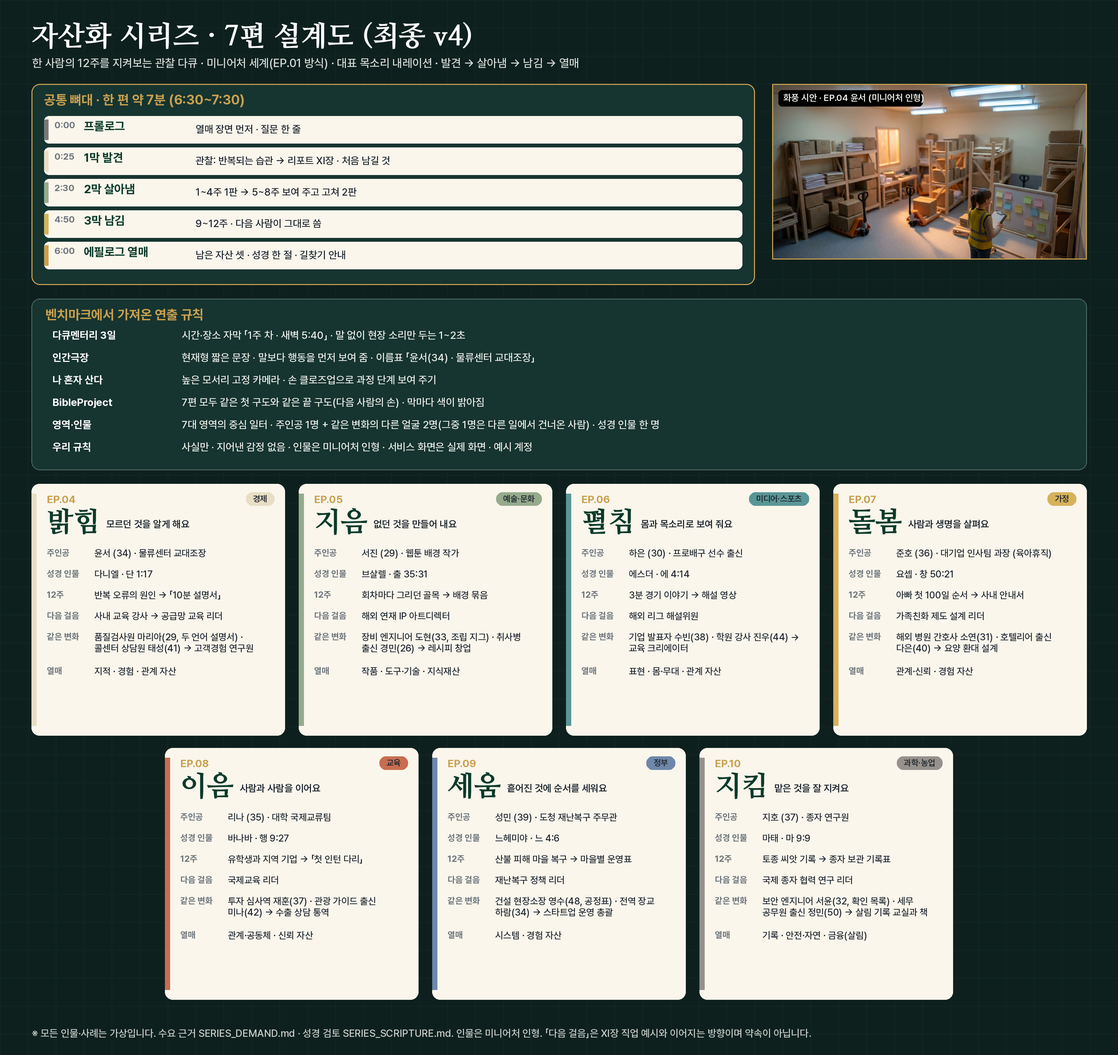
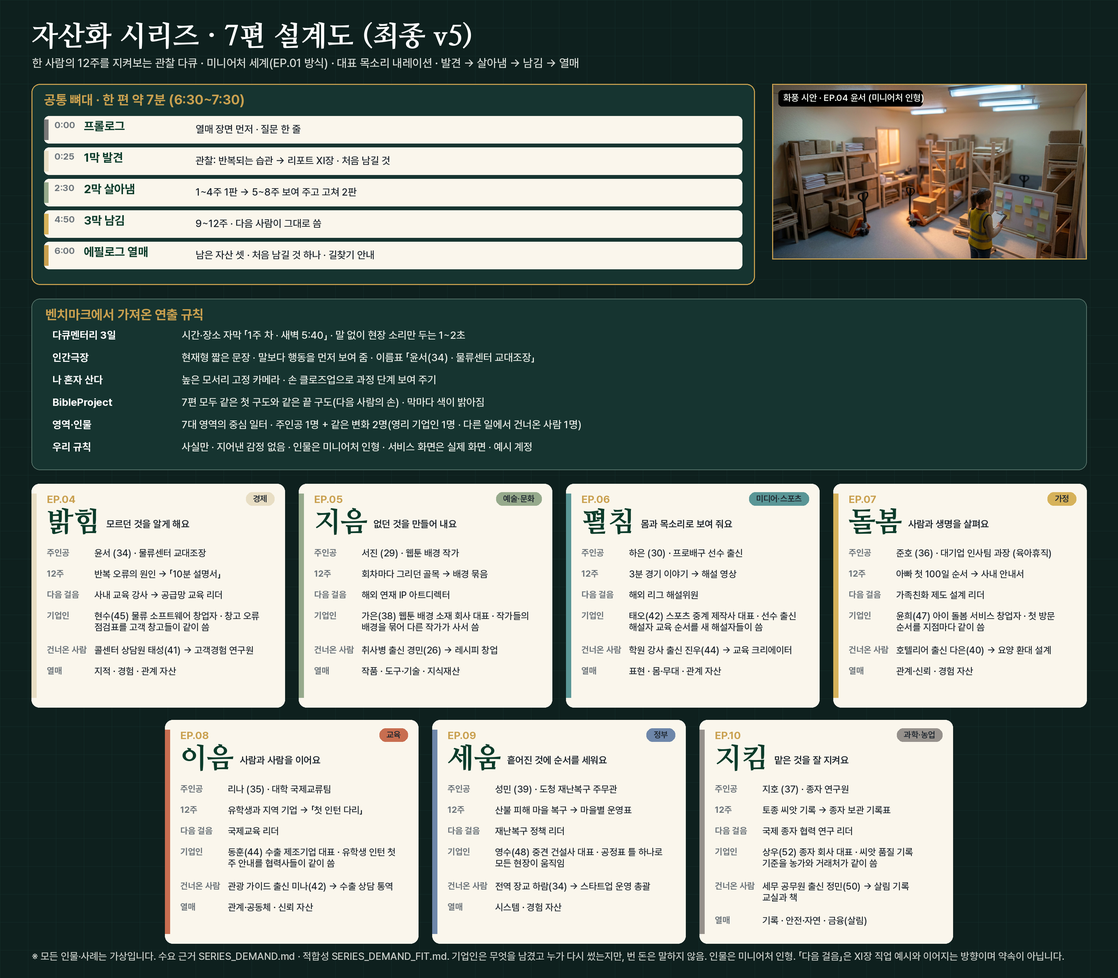
series: plan v5 (no Bible figures in videos, business founders added), demand fit review, scripture advice, EP04 script v3

Changed region(s): [[0.0312, 0.0, 1.0, 0.9943]]

diff --git a/docs/marketing/youtube/ep04_toolkit/EP04_script.md b/docs/marketing/youtube/ep04_toolkit/EP04_script.md
@@ -1,47 +1,46 @@
-# 고유함이 쓰이는 순간 EP.04 대본 v2 (대표 검토 전 · 기획 v4 반영)
+# 고유함이 쓰이는 순간 EP.04 대본 v3 (기획 v5 반영: 성경 장면 뺌, 기업인 넣음, 실제 퀘스트 주차와 맞춤)
 제목: 모르던 것을 알게 하는 사람 - 밝힘 | 고유함이 쓰이는 순간 EP.04
-인물(가상): 윤서(34) · 물류센터 새벽조 교대조장
-근거: 해설서 CHANGES 밝힘(line·life·subs 「문제의 원인을 찾아 주기」「아는 것을 쉽게 가르치기」), 리포트 XI장 ASSETS.illuminate, 12주 자산화 퀘스트 구조
-성경: 다니엘 1:17 (검토: series/SERIES_SCRIPTURE.md)
+인물(가상): 윤서(34) · 물류센터 새벽조 교대조장 / 같은 변화: 현수(45) 물류 소프트웨어 회사 창업자 · 태성(41) 콜센터 상담원 → 고객경험 연구원
+근거: 해설서 CHANGES 밝힘, 리포트 XI장(실제 엔진 결과 screens/xi.json), 12주 자산화 퀘스트(asset-quest-v1, 밝힘 · 지적 자산 · 원인과 해결 순서)
 표기: 숫자는 TTS용 한글. 화면에는 아라비아 숫자로 합성.
 연출 표기: (현장음) = 내레이션 없이 1~2초 현장 소리만. 〔자막〕 = 시간·장소·이름표 자막.
 
 [S01|모르던 것을 알게 하는 사람]
 〔12주 차 · 새벽 5:40 · 출고장〕
-새벽 다섯 시 사십 분, 물류센터 출고장. 처음 출근한 신입 조장이 종이 한 장을 펼칩니다. 맨 위에 적힌 제목은 십 분 설명서. 이 종이를 쓴 사람은 같은 센터의 교대조장, 윤서 씨입니다. 열두 주 전에는 이 종이가 없었습니다. 이 사람이 있으면 무엇이 달라질까요. 밝힘은 모르던 것을 알게 하는 변화입니다.
+새벽 다섯 시 사십 분, 물류센터 출고장. 처음 출근한 신입 조장이 종이 한 장을 펼칩니다. 맨 위에 적힌 제목은 십 분 설명서. 이 종이를 쓴 사람은 같은 센터의 교대조장, 윤서 씨입니다. 열두 주 전에는 이 종이가 없었습니다. 밝힘은 모르던 것을 알게 하는 변화입니다.
 (현장음)
 
 [S02|같은 칸, 같은 질문]
 〔1주 차 · 새벽 5:00〕〔윤서(34) · 물류센터 교대조장〕
-윤서 씨는 올해 서른네 살, 새벽조 교대조장입니다. 근무를 시작하면 윤서 씨는 먼저 출고 오류 기록부를 엽니다. 전날 잘못 나간 상자가 몇 개인지, 어느 칸에서 나왔는지 손가락으로 따라 내려갑니다. 오류는 자주 같은 칸에서 납니다. 이름이 비슷한 상품이 나란히 놓인 칸입니다. 새로 온 직원이 물으면, 윤서 씨는 그 칸 앞으로 함께 걸어가 라벨의 끝자리를 짚어 줍니다. 이번 주에만 같은 설명을 네 번 했습니다. 설명은 매번 윤서 씨의 말로만 전해졌고, 종이에는 남지 않았습니다.
+윤서 씨는 올해 서른네 살, 새벽조 교대조장입니다. 근무를 시작하면 윤서 씨는 먼저 출고 오류 기록부를 엽니다. 전날 잘못 나간 상자가 몇 개인지, 어느 칸에서 나왔는지 손가락으로 따라 내려갑니다. 오류는 자주 같은 칸에서 납니다. 이름이 비슷한 상품이 나란히 놓인 칸입니다. 새로 온 직원이 물으면, 윤서 씨는 그 칸 앞으로 함께 걸어가 라벨의 끝자리를 짚어 줍니다. 이번 주에만 같은 설명을 네 번 했습니다. 그 설명은 아직 종이에 적힌 적이 없습니다.
 (현장음)
 
 [S02b|묻는 사람이 찾아오는 자리]
 〔1주 차 · 오전 7:30 · 휴게실〕
-근무가 끝나 갈 무렵, 휴게실 게시판 앞에서 다른 조 직원이 윤서 씨를 부릅니다. 바코드가 안 읽힐 때 어떻게 하는지 묻습니다. 윤서 씨는 휴대전화에 저장해 둔 사진 한 장을 보여 주고, 스캐너를 기울이는 각도를 손으로 그려 줍니다. 윤서 씨의 휴대전화에는 이런 사진이 서른 장 넘게 있습니다. 라벨, 칸 번호, 상자 모양. 모두 누군가 물었던 것을 설명하려고 찍은 사진입니다. 윤서 씨는 이 사진들을 한곳에 모아 본 적이 없습니다.
+근무가 끝나 갈 무렵, 휴게실 게시판 앞에서 다른 조 직원이 윤서 씨를 부릅니다. 바코드가 안 읽힐 때 어떻게 하는지 묻습니다. 윤서 씨는 휴대전화에 저장해 둔 사진 한 장을 보여 주고, 스캐너를 기울이는 각도를 손으로 그려 줍니다. 윤서 씨의 휴대전화에는 이런 사진이 서른 장 넘게 있습니다. 라벨, 칸 번호, 상자 모양. 모두 누군가 물었던 것을 설명하려고 찍은 사진입니다.
 (현장음)
 
 [S03|리포트 십일 장, 밝힘]
-윤서 씨가 받은 리포트의 마지막 장은 십일 장, 자산화 길 찾기입니다. 자산화 유형은 밝힘. 모르는 걸 끝까지 찾아보고, 알게 된 것을 다른 사람에게 쉽게 풀어 주는 일입니다. 동료에게 요령을 알려 주는 일도 밝힘입니다. 그 아래에는 윤서 씨의 리포트에서 나온 말로 엮은 나만의 자산화 문장이 있습니다. 그리고 이번 주에 해 볼 처음 남길 것 하나. 반복되는 문제 하나의 원인과 해결 순서를 적어 보기. 윤서 씨는 이 한 줄을 기록부 첫 장에 옮겨 적습니다.
+윤서 씨가 받은 리포트의 마지막 장은 십일 장, 자산화 길 찾기입니다. 자산화 유형은 밝힘. 그 아래에 윤서 씨의 답에서 나온 말로 엮은 자산화 문장이 있습니다. 사람들이 모이는 한복판에서 문제의 원인을 찾아 길을 밝혀 주는 사람. 그 일을 원인과 해결 순서로 남겨, 다른 사람도 다시 쓸 수 있게 하는 사람. 그리고 처음 남길 것 하나. 반복되는 문제 하나의 원인과 해결 순서를 적어 보기. 윤서 씨는 이 한 줄을 기록부 첫 장에 옮겨 적습니다.
 〔화면 표기: 실제 서비스 화면 · 예시 계정〕
 
 [S04|일 주에서 사 주, 해 보고 남기기]
 〔1~4주 차 · 해 보고 남기기〕
-윤서 씨는 자산화 맞춤 실행 프로그램의 십이 주 퀘스트를 시작합니다. 일 주부터 사 주는 가까운 사람 곁에서 해 보고 남기는 구간입니다. 일 주 차, 지난 한 달의 오류 기록을 칸별로 셉니다. 가장 많이 나온 칸은 세 곳입니다. 이 주 차, 세 칸 앞에 서서 무엇이 헷갈리게 하는지 적습니다. 비슷한 상품 이름, 같은 색 상자, 끝자리만 다른 라벨. 삼 주 차, 원인 옆에 해결 순서를 붙입니다. 라벨 끝자리 두 개를 소리 내어 읽고, 그다음에 상자를 집습니다. 윤서 씨는 이 순서를 일주일 동안 직접 지켜 봅니다. 사 주 차, 이 내용을 종이 한 장에 담습니다. 십 분이면 다 읽을 수 있는 분량, 십 분 설명서의 첫 판입니다. 그날 다이어리의 오늘 해 봤어요에 한 줄이 남습니다. 오류가 많은 칸 세 곳, 원인과 순서 정리.
+윤서 씨는 자산화 맞춤 실행 프로그램의 십이 주 퀘스트를 시작합니다. 일 주부터 사 주는 가까운 사람 곁에서 해 보고 남기는 구간입니다. 일 주 차, 해 보기. 지난 한 달의 오류 기록을 칸별로 셉니다. 가장 많이 나온 칸은 세 곳입니다. 이 주 차, 다듬기. 세 칸마다 원인을 적고, 그 옆에 해결 순서를 붙입니다. 라벨 끝자리 두 개를 소리 내어 읽고, 그다음에 상자를 집습니다. 삼 주 차, 까닭 달기. 왜 이 순서인지 한 줄씩 덧붙입니다. 이름이 비슷한 상품은 끝자리에서만 갈린다는 것. 사 주 차, 보여 주기. 십 분이면 다 읽을 수 있는 종이 한 장을 같은 조 동료 한 사람에게 건넵니다. 십 분 설명서의 첫 판입니다. 동료가 말한 한 줄이 다이어리의 오늘 해 봤어요에 남습니다. 사진이 있으면 더 빨리 찾겠다.
 (현장음)
 
 [S05|오 주에서 팔 주, 보여 주고 고쳐 쓰기]
 〔5~8주 차 · 보여 주고 고쳐 쓰기〕
-오 주부터 팔 주는 보여 주고 고쳐 쓰는 구간입니다. 윤서 씨는 첫 판을 들고 새로 온 직원 한 사람 옆에 섭니다. 십 분 동안 함께 읽고, 그 직원이 세 칸에서 직접 상자를 집습니다. 직원이 묻습니다. 끝자리까지 같으면 어떻게 해요. 윤서 씨는 그 질문을 그대로 받아 적습니다. 받아 적은 질문은 네 주 동안 열한 개가 됩니다. 두 번째 판에는 질문 칸이 생깁니다. 가장 많이 나온 질문 다섯 개와 그 답, 그리고 칸마다 사진 한 장. 첫 판에 없던 내용은 모두 읽은 사람들의 질문에서 나왔습니다.
-(현장음)
-
-〔8주 차 · 새벽 4:50 · 교육실〕
-팔 주 차 새벽, 윤서 씨는 두 번째 판을 처음 보는 직원에게 건네고 옆에서 말을 하지 않습니다. 직원은 혼자 설명서를 읽고 세 칸으로 걸어갑니다. 라벨 끝자리를 소리 내어 읽고 상자를 집습니다. 한 번 멈춘 곳은 질문 칸의 세 번째 줄입니다. 윤서 씨는 그 줄 옆에 작은 별표를 그립니다. 다음 판에서 더 쉽게 고칠 곳입니다. 그날 오늘 해 봤어요에는 이렇게 남습니다. 설명 없이 혼자 읽고 해냄, 멈춘 곳 한 군데.
+오 주부터 팔 주는 보여 주고 고쳐 쓰는 구간입니다. 오 주 차, 소개하기. 윤서 씨는 조장 회의에서 첫 판을 소개합니다. 다른 조 조장들이 묻습니다. 끝자리까지 같으면 어떻게 해요. 윤서 씨는 그 질문을 그대로 받아 적습니다. 받아 적은 질문은 네 주 동안 열한 개가 됩니다. 육 주 차, 고쳐 쓰기. 두 번째 판에는 질문 칸이 생깁니다. 가장 많이 나온 질문 다섯 개와 그 답, 그리고 칸마다 사진 한 장. 휴대전화에 있던 사진이 여기에 쓰입니다. 칠 주 차, 넓히기. 윤서 씨는 한 주 동안 새로 온 직원들에게 안부를 묻고, 나눈 말을 적습니다. 첫 주에 무엇이 가장 어려웠는지가 그 기록에 남습니다. 팔 주 차, 돌아보기. 오래 함께 일한 선배와 일곱 주의 기록을 펼쳐 봅니다. 되풀이된 것은 셋. 같은 세 칸, 같은 질문, 그리고 첫 주.
 (현장음)
 
 [S06|구 주에서 십이 주, 다음 사람이 쓰는 것]
 〔9~12주 차 · 다음 사람이 쓰는 것〕
-구 주부터 십이 주는 일터에서, 다음 사람이 다시 쓰는 카드로 묶는 구간입니다. 구 주 차, 윤서 씨는 두 번째 판을 신입 교육 첫날 순서에 넣자고 센터장에게 제안합니다. 십 주 차, 설명서는 교육실 벽에 붙습니다. 십일 주 차, 다른 조의 교대조장이 설명서를 복사해 갑니다. 그 조의 칸 번호로 고쳐 쓴 판이 하나 더 생깁니다. 십이 주 차, 처음 출근한 신입 조장이 첫 주에 이 종이를 펼칩니다. 윤서 씨는 설명서를 받아 쓴 사람들을 다이어리에 적습니다. 다른 조 교대조장 한 사람, 신입 조장 한 사람, 새로 온 직원 두 사람. 휴대전화에 흩어져 있던 사진 서른 장은 칸 번호 순서로 설명서 뒤에 붙었습니다.
+구 주부터 십이 주는 일터에서, 다음 사람이 다시 쓰는 카드로 묶는 구간입니다.
+〔9주 차 · 새벽 4:50 · 교육실〕
+구 주 차, 써 보게 하기. 윤서 씨는 두 번째 판을 처음 보는 직원에게 건네고 옆에서 말을 하지 않습니다. 직원은 혼자 설명서를 읽고 세 칸으로 걸어갑니다. 라벨 끝자리를 소리 내어 읽고 상자를 집습니다. 한 번 멈춘 곳은 질문 칸의 세 번째 줄입니다. 윤서 씨는 그 줄 옆에 작은 별표를 그립니다.
+(현장음)
+십 주 차, 묶기. 별표 친 줄을 고친 판과 질문 열한 개, 사진 서른 장을 칸 번호 순서로 한 묶음에 엮습니다. 십일 주 차, 건네기. 회사의 신입 교육을 맡은 강사에게 묶음을 건네고, 어디에 쓸 수 있는지 묻습니다. 강사는 신입 교육 첫날 순서에 이 설명서를 넣습니다. 십이 주 차, 카드 쓰기. 윤서 씨는 열두 주를 자산 카드 한 장에 담습니다. 무엇이 남았나, 누가 다시 썼나, 다음에 넓힐 곳. 누가 다시 썼나 칸에는 다른 조 교대조장 한 사람, 신입 조장 한 사람, 새로 온 직원 두 사람이 적힙니다.
 
 [S06b|다음 걸음]
 〔12주 차 · 오후 2:00 · 사무실〕
@@ -50,14 +49,11 @@
 
 [S07|같은 변화, 다른 얼굴]
 〔같은 변화, 다른 얼굴〕
-밝힘은 물류센터에만 있지 않습니다. 반도체 공장의 품질검사원 마리아 씨는 스물아홉 살입니다. 같은 불량을 두 나라 동료가 서로 다르게 부르는 것을 보고, 두 언어로 된 검사 설명서를 한 장 만들었습니다. 콜센터 상담원 태성 씨는 마흔한 살입니다. 칠 년 동안 같은 질문을 받은 날짜와 내용을 적어 왔고, 그 기록을 묶어 고객경험 연구원 자리에 지원했습니다. 하던 일 안에서 이미 쌓고 있던 것이 다음 자리의 재료가 되었습니다.
+같은 밝힘이 다른 일터에서도 보입니다. 물류 소프트웨어 회사를 세운 현수 씨는 마흔다섯 살입니다. 고객 창고 열두 곳의 오류 기록을 같은 항목으로 모아, 점검표 한 장으로 정리했습니다. 새로 계약한 창고는 첫 주에 이 점검표로 시작합니다. 콜센터 상담원 태성 씨는 마흔한 살입니다. 칠 년 동안 같은 질문을 받은 날짜와 내용을 적어 왔고, 그 기록을 묶어 고객경험 연구원 자리에 지원했습니다. 세 사람 모두 반복되는 문제의 원인을 적었고, 그 기록을 다른 사람이 다시 씁니다.
 (현장음)
 
 [S08|열두 주 뒤에 남은 것]
 열두 주가 지났습니다. 윤서 씨에게 남은 것을 리포트 십일 장의 말로 적어 봅니다. 첫째, 지적 자산. 원인과 해결 순서를 담은 십 분 설명서. 둘째, 경험 자산. 오류가 잦던 세 칸을 풀어 본 사례 기록과 열한 개의 질문. 셋째, 관계 자산. 모르는 것이 생기면 윤서 씨에게 묻고 배우러 오는 사람들.
-
-[S09|낯선 곳에서 배운 사람]
-성경에는 낯선 나라의 궁에서 배운 사람이 있습니다. 다니엘입니다. 다니엘서 일 장 십칠 절은 이렇게 말합니다. 하나님이 이 네 소년에게 학문을 주시고, 모든 서적을 깨닫게 하시고, 지혜를 주셨으니. 앎과 깨달음은 받은 것이고, 다니엘은 그 앎으로 맡은 자리에서 일했습니다. 윤서 씨가 알게 된 것도 종이 한 장에 담겨, 다음 사람에게 건너갔습니다.
 
 [S10|처음 남길 것 하나]
 고유함은 발견하고, 살아내고, 남길 때 자산이 됩니다. 윤서 씨의 열두 주는 반복되는 문제 하나에서 시작했습니다. 리포트 십일 장에서 자산화 유형과 처음 남길 것을 확인하실 수 있고, 마이페이지의 나의 다이어리, 추천 진로 세 카드에서 길찾기를 열 수 있습니다. 처음 남길 것 하나면 충분합니다.

diff --git a/docs/marketing/youtube/series/SERIES_PLAN.md b/docs/marketing/youtube/series/SERIES_PLAN.md
@@ -1,13 +1,13 @@
-# 자산화 시리즈 기획서 (EP.04 ~ EP.10) · 최종본 v4
+# 자산화 시리즈 기획서 (EP.04 ~ EP.10) · 최종본 v5
 
-상태: 대표 확정 사항을 반영한 최종본. EP.04 제작을 시작할 수 있습니다.
-함께 보는 문서: `SERIES_BLUEPRINT.png`(설계도), `SERIES_BENCHMARK.md`(벤치마크), `SERIES_DEMAND.md`(영역별 수요조사와 사례), `SERIES_SCRIPTURE.md`(성경 인물·구절 검토), `subwrap.py`(자막 규칙)
+상태: 대표 확정 사항(v5: 영상에 성경 인물 없음, 영리 기업인 추가)을 반영한 최종본. EP.04 제작 중입니다.
+함께 보는 문서: `SERIES_BLUEPRINT.png`(설계도), `SERIES_BENCHMARK.md`(벤치마크), `SERIES_DEMAND.md`(영역별 수요조사와 사례), `SERIES_DEMAND_FIT.md`(그 조사가 자산화 유형 설명에 맞는지 검토), `SERIES_SCRIPTURE_ADVICE.md`(성경 인물을 영상에 넣지 않는 이유와 자리 나누기), `SERIES_SCRIPTURE.md`(내부 설계 기준), `subwrap.py`(자막 규칙)
 
 ## 0. 대표 확정 사항 (2026-10-13)
 | 항목 | 확정 |
 |---|---|
 | 자막 | 새 규칙(어절·의미 단위)을 지금부터 모든 영상에 적용 |
-| 인물·사례 | 밝힘(윤서)은 그대로. 나머지 여섯은 7대 영역의 중심 일터에서 국내외 리더로 자랄 사람으로(v4). 편마다 성경 인물 한 명, 「같은 변화, 다른 얼굴」 두 사람(그중 한 명은 다른 일에서 건너온 마태형). 기독교를 말하거나 기독교 관련 직업은 쓰지 않음 |
+| 인물·사례 | 밝힘(윤서)은 그대로. 나머지 여섯은 7대 영역의 중심 일터에서 국내외 리더로 자랄 사람으로(v4). 영상에는 주인공과 「같은 변화, 다른 얼굴」 두 사람만 나옴(v5). 두 사람 중 한 명은 영리 기업을 세우거나 이끄는 사람, 한 명은 다른 일에서 건너온 사람. 성경 인물은 영상에 넣지 않고 내부 기준으로만 씀. 기독교를 말하거나 기독교 관련 직업은 쓰지 않음 |
 | 형식 | 한 사람의 12주를 영화처럼 보여 주는 관찰 다큐. 발견 → 살아냄 → 남김 → 열매 |
 | 화면 | 관찰 예능 구도. 인물은 실제 사람처럼 만들지 않고, EP.01처럼 미니어처 세계와 인형으로 |
 | 목소리 | 대표 음성 내레이션 (`t5GCyTeNPnB65ZgYuIhE`) |
@@ -42,23 +42,25 @@
 | 1막 발견 | 0:25~2:10 | 관찰 카메라로 본 그 사람의 하루. 반복되는 습관을 행동으로 먼저 보여 줌. 리포트 XI장(실제 화면 · 예시 계정): 자산화 유형 · 나만의 자산화 문장 · 처음 남길 것 |
 | 2막 살아냄 | 2:10~4:10 | 1~4주: 해설서의 「처음 남길 것」을 하고 1판. 5~8주: 보여 주고 들은 말로 고쳐 2판 (12주 퀘스트) |
 | 3막 남김 | 4:10~5:10 | 9~12주: 다음 사람이 그대로 쓰게 묶음. 누가 다시 썼는지 기록(나의 다이어리). 「다음 걸음」 장면 하나(XI장 직업 예시와 이어지는 지원·제안 같은 사실) |
-| 같은 변화, 다른 얼굴 | 5:10~6:00 | 다른 일터의 두 사람을 20초씩. 한 명은 다른 일에서 건너온 사람(마태형). 무엇을 남겼는지 한 장면씩 |
-| 에필로그 열매 | 6:00~7:00 | 남은 자산 셋(XI장 예시) · 성경 인물 한 명과 구절 한 절 · 「처음 남길 것 하나면 충분합니다」 · 마지막 20초는 나의 다이어리 › 추천 진로 세 카드 안내 |
+| 같은 변화, 다른 얼굴 | 5:10~6:00 | 다른 일터의 두 사람을 20초씩. 한 명은 영리 기업인(록펠러처럼 기준을 세워 여러 곳이 같은 틀을 쓰게 한 사람), 한 명은 다른 일에서 건너온 사람. 무엇을 남겼고 누가 다시 썼는지 한 장면씩. 번 돈은 말하지 않음 |
+| 에필로그 열매 | 6:00~7:00 | 남은 자산 셋(XI장 예시) · 「처음 남길 것 하나면 충분합니다」 · 마지막 20초는 나의 다이어리 › 추천 진로 세 카드 안내 |
 - 가격과 「무료」 문구는 넣지 않습니다.
 
-## 4. 일곱 편 (v4)
-| 편 | 영역 | 제목 | 주인공 | 성경 인물 | 12주에 남기는 것 | 다음 걸음 (XI장과 이어짐) | 같은 변화, 다른 얼굴 | 열매 (XI장) | 세계 (재료·빛) |
+## 4. 일곱 편 (v5)
+| 편 | 영역 | 제목 | 주인공 | 12주에 남기는 것 | 다음 걸음 (XI장과 이어짐) | 같은 변화 · 기업인 | 같은 변화 · 건너온 사람 | 열매 (XI장) | 세계 (재료·빛) |
 |---|---|---|---|---|---|---|---|---|---|
-| EP.04 | 경제 | 모르던 것을 알게 하는 사람 - 밝힘 | 윤서(34) 물류센터 교대조장 | 다니엘 · 단 1:17 | 반복 오류의 원인과 해결 순서 → 「10분 설명서」 | 사내 교육 강사 → 공급망 교육 리더 | 마리아(29) 품질검사원 · 태성(41) 콜센터 상담원 → 고객경험 연구원 | 지적 · 경험 · 관계 | 골판지·발사나무 · 새벽 형광 |
-| EP.05 | 예술·문화 | 없던 것을 만들어 내는 사람 - 지음 | 서진(29) 웹툰 배경 작가 | 브살렐 · 출 35:31 | 회차마다 그리던 골목 → 다시 쓰는 배경 묶음 | 해외 연재 작품의 아트디렉터 | 도현(33) 장비 엔지니어 · 경민(26) 취사병 출신 → 레시피 창업 | 작품 · 도구·기술 · 지식재산 | 종이 오림·잉크 · 밤 모니터 청보라 |
-| EP.06 | 미디어·스포츠 | 몸과 목소리로 보여 주는 사람 - 펼침 | 하은(30) 프로배구 선수 출신 | 에스더 · 에 4:14 | 3분 경기 이야기 → 해설 영상 | 해외 리그 해설위원 | 수빈(38) 기업 발표자 · 진우(44) 학원 강사 출신 → 교육 크리에이터 | 표현 · 몸·무대 · 관계 | 펠트 방음벽 · 붉은 방송등 |
-| EP.07 | 가정 | 사람과 생명을 살피는 사람 - 돌봄 | 준호(36) 대기업 인사팀 과장 (육아휴직) | 요셉 · 창 50:21 | 아빠 첫 100일 순서 → 사내 안내서 | 가족친화 제도 설계 리더 | 소연(31) 해외 병원 간호사 · 다은(40) 호텔리어 출신 → 요양 환대 설계 | 관계·신뢰 · 경험 | 원목·뜨개 · 아침 거실 햇살 |
-| EP.08 | 교육 | 사람과 사람을 잇는 사람 - 이음 | 리나(35) 대학 국제교류팀 | 바나바 · 행 9:27 | 유학생과 지역 기업 → 「첫 인턴 다리」 | 국제교육 리더 | 재훈(37) 투자 심사역 · 미나(42) 관광 가이드 출신 → 수출 상담 통역 | 관계·공동체 · 신뢰 | 칠판 초록·분필 · 오후 캠퍼스 |
-| EP.09 | 정부 | 흩어진 것에 순서를 세우는 사람 - 세움 | 성민(39) 도청 재난복구 주무관 | 느헤미야 · 느 4:6 | 산불 피해 마을 복구 → 마을별 운영표 | 재난복구 정책 리더 | 영수(48) 건설 현장소장 · 하람(34) 전역 장교 → 스타트업 운영 총괄 | 시스템 · 경험 | 아크릴·번호표 · 아침 파스텔 |
-| EP.10 | 과학·농업 | 맡은 것을 잘 지키는 사람 - 지킴 | 지호(37) 종자 연구원 | 마태 · 마 9:9 | 토종 씨앗 기록 → 종자 보관 기록표 | 국제 종자 협력 연구 리더 | 서윤(32) 보안 엔지니어 · 정민(50) 세무 공무원 출신 → 살림 기록 교실과 책 | 기록 · 안전·자연 · 금융(살림) | 점토·씨앗 · 새벽 안개 온실 |
-- 모든 인물과 사례는 가상입니다. 「처음 남길 것」은 해설서 문장을 그대로 씁니다. 근거는 `SERIES_DEMAND.md`, 성경 검토는 `SERIES_SCRIPTURE.md`에 있습니다.
+| EP.04 | 경제 | 모르던 것을 알게 하는 사람 - 밝힘 | 윤서(34) 물류센터 교대조장 | 반복 오류의 원인과 해결 순서 → 「10분 설명서」 | 사내 교육 강사 → 공급망 교육 리더 | 현수(45) 물류 소프트웨어 회사 창업자 · 창고 오류 유형을 한 점검표로 정리해 고객 창고들이 같은 표를 씀 | 태성(41) 콜센터 상담원 → 고객경험 연구원 | 지적 · 경험 · 관계 | 골판지·발사나무 · 새벽 형광 |
+| EP.05 | 예술·문화 | 없던 것을 만들어 내는 사람 - 지음 | 서진(29) 웹툰 배경 작가 | 회차마다 그리던 골목 → 다시 쓰는 배경 묶음 | 해외 연재 작품의 아트디렉터 | 가은(38) 웹툰 배경 소재 회사 대표 · 작가들이 만든 배경을 묶어 다른 작가가 사서 씀 | 경민(26) 취사병 출신 → 레시피 창업 | 작품 · 도구·기술 · 지식재산 | 종이 오림·잉크 · 밤 모니터 청보라 |
+| EP.06 | 미디어·스포츠 | 몸과 목소리로 보여 주는 사람 - 펼침 | 하은(30) 프로배구 선수 출신 | 3분 경기 이야기 → 해설 영상 | 해외 리그 해설위원 | 태오(42) 스포츠 중계 제작사 대표 · 선수 출신 해설자 교육 순서를 만들어 새 해설자들이 그대로 씀 | 진우(44) 학원 강사 출신 → 교육 크리에이터 | 표현 · 몸·무대 · 관계 | 펠트 방음벽 · 붉은 방송등 |
+| EP.07 | 가정 | 사람과 생명을 살피는 사람 - 돌봄 | 준호(36) 대기업 인사팀 과장 (육아휴직) | 아빠 첫 100일 순서 → 사내 안내서 | 가족친화 제도 설계 리더 | 윤희(47) 아이 돌봄 서비스 회사 창업자 · 돌봄 선생님 첫 방문 순서를 한 기준으로 만들어 지점마다 같은 순서를 씀 | 다은(40) 호텔리어 출신 → 요양 환대 설계 | 관계·신뢰 · 경험 | 원목·뜨개 · 아침 거실 햇살 |
+| EP.08 | 교육 | 사람과 사람을 잇는 사람 - 이음 | 리나(35) 대학 국제교류팀 | 유학생과 지역 기업 → 「첫 인턴 다리」 | 국제교육 리더 | 동훈(44) 수출 제조기업 대표 · 유학생 인턴 첫 주 안내를 만들어 협력사들이 함께 씀 | 미나(42) 관광 가이드 출신 → 수출 상담 통역 | 관계·공동체 · 신뢰 | 칠판 초록·분필 · 오후 캠퍼스 |
+| EP.09 | 정부 | 흩어진 것에 순서를 세우는 사람 - 세움 | 성민(39) 도청 재난복구 주무관 | 산불 피해 마을 복구 → 마을별 운영표 | 재난복구 정책 리더 | 영수(48) 중견 건설사 대표 · 공정표 틀을 하나로 세워 모든 현장이 같은 틀로 움직임 | 하람(34) 전역 장교 → 스타트업 운영 총괄 | 시스템 · 경험 | 아크릴·번호표 · 아침 파스텔 |
+| EP.10 | 과학·농업 | 맡은 것을 잘 지키는 사람 - 지킴 | 지호(37) 종자 연구원 | 토종 씨앗 기록 → 종자 보관 기록표 | 국제 종자 협력 연구 리더 | 상우(52) 종자 회사 대표 · 씨앗 품질 기록 기준을 세워 농가와 거래처가 같은 기록을 씀 | 정민(50) 세무 공무원 출신 → 살림 기록 교실과 책 | 기록 · 안전·자연 · 금융(살림) | 점토·씨앗 · 새벽 안개 온실 |
+- 모든 인물과 사례는 가상입니다. 「처음 남길 것」은 해설서 문장을 그대로 씁니다. 근거는 `SERIES_DEMAND.md`, 그 근거가 맞는지 검토는 `SERIES_DEMAND_FIT.md`에 있습니다.
+- 기업인은 록펠러처럼 「기준을 세워 여러 곳이 같은 틀을 쓰게 한」 사람으로 그립니다. 무엇을 남겼고 누가 다시 썼는지만 보여 주고, 번 돈·회사 크기·투자는 말하지 않습니다.
+- 성경 인물은 영상에 넣지 않습니다(`SERIES_SCRIPTURE_ADVICE.md`). `SERIES_SCRIPTURE.md`는 인물을 고르는 내부 기준으로만 씁니다.
 - 「다음 걸음」은 약속이 아닙니다. 영상에서는 「교육 강사 과정에 지원서를 냅니다」처럼 사실 장면 하나로만 보여 줍니다.
-- 성별·나이: 주인공 여 4 · 남 3, 29~39세. 다른 얼굴 14명은 26~50세로 다양하게.
+- 성별·나이: 주인공 여 4 · 남 3, 29~39세. 다른 얼굴 14명은 26~52세로 다양하게.
 - 지킴 편의 돈 이야기는 살림·관리 예시로만 씁니다. 특정 기업·플랫폼·기관 이름은 쓰지 않습니다.
 
 ## 5. 그대로 쓰는 것 (EP.03 합격 기준)
@@ -87,13 +89,13 @@
 | 렌더 | 한 편 (약 1.5시간 예상) | 한 번에 한 편씩 (6편 약 9시간 예상) |
 | 점검 · 전달 | 렌더 직후 | 편마다 렌더 직후 |
 - 이 작업 공간은 CPU 2개·메모리 4GB입니다. 렌더 두 개를 동시에 돌리면 멈출 위험이 있어 렌더만 차례로 합니다.
-- 디스크 남은 공간이 약 0.5GB입니다. EP.04 시작 전에 EP.03 작업 파일(약 2.2GB)을 정리합니다. 최종본은 이미 올려 두었습니다.
+- EP.03 작업 파일을 정리해 디스크 남은 공간을 약 2.0GB로 늘렸습니다. 렌더 전마다 남은 공간을 확인합니다.
 
 ## 8. 비용
 - 편당 예상: 인물 기준 이미지 1~2장, 장면 이미지 약 14장, 배경 영상 약 14개(6초), 녹음 약 7분, 배경음악 1곡, 썸네일 3안
 - 지금까지 쓴 것: 화풍 시안 이미지 2장 (실사 시안 1장은 쓰지 않기로 함, 미니어처 시안 1장은 채택)
 
 ## 9. 다음 단계
-1. EP.03 작업 파일 정리 (디스크 확보)
-2. EP.04 대본 작성 → 성경 구절 문맥 검토 → 대표 검토
-3. 대본 합격 뒤: 윤서 인물 기준 이미지 → 장면 이미지 → 배경 영상 → 녹음 → 렌더 → 점검 → 전달
+1. (끝남) EP.03 작업 파일 정리
+2. (끝남) EP.04 대본 v3: 성경 장면 뺌, 기업인 넣음
+3. 지금: 윤서 인물 기준 이미지 → 장면 이미지 → 배경 영상 → 녹음 → 렌더 → 점검 → 전달

diff --git a/docs/marketing/youtube/series/SERIES_DEMAND_FIT.md b/docs/marketing/youtube/series/SERIES_DEMAND_FIT.md
@@ -1,0 +1,34 @@
+# 자산화 시리즈 · 수요조사 적합성 검토 (2026-10-13)
+
+대표 질문: 「그 조사가 자산화 유형을 설명하기에 적합한가」
+
+## 0. 먼저 나눠 둘 것
+숫자가 할 수 있는 일과 할 수 없는 일을 나눴습니다.
+
+| 질문 | 숫자로 답할 수 있나 | 근거 |
+|---|---|---|
+| ① 이 변화가 무엇인가 | 없음 | 해설서(diary-help.js CHANGES)와 리포트 XI장 규칙이 정합니다. 통계로 설명하지 않습니다 |
+| ② 이 영역에 그 변화가 남기는 자산이 필요한가 | 있음 | 그 영역의 「빈자리」를 직접 보여 주는 숫자가 필요합니다 |
+| ③ 시장이 큰가 | 있음 | 규모 숫자입니다. ②를 대신하지 못합니다 |
+
+판정 기준
+- **적합**: ②를 직접 보여 줍니다. 예: 「무엇이 부족하다」「무엇이 가장 큰 부담이다」
+- **부분**: ③(규모·추세)만 보여 줍니다
+- **부적합**: 인물·자산과 거리가 멉니다
+
+## 1. 지난번 숫자 판정과 바꾼 것
+| 편 | 지난번 숫자 | 판정 | 이유 | 바꾸거나 더한 숫자 (확인한 출처) | 새 판정 |
+|---|---|---|---|---|---|
+| 밝힘 | 운수업 종사자 153만 6천 명 · 물류창고 5,267곳 | 부분 | 규모만 보여 줍니다. 「설명서가 필요하다」는 말이 아닙니다 | 대졸 신입 1년 안 퇴사 이유 1위 「조직·직무 적응 실패」 49.1% (한국경영자총협회 신입사원 채용실태조사, 2016) · 산업재해 사망자 중 근속 6개월 미만 3년 평균 54.7% (부산 지역, 부산일보 2024-07-18) | 적합. 일을 처음 배우는 시기가 가장 약하다는 숫자입니다. 다만 둘 다 오래되었거나 한 지역 자료라서, 영상에 숫자를 쓰지 않는 원칙은 그대로 둡니다 |
+| 지음 | 웹툰 매출 2조 2,856억 원 · 수출 일본 49.5% | 부분 | 시장 규모입니다 | 경상남도 「배경 제작은 창작자에게 가장 큰 시간·비용 부담」 (2026 3D 웹툰 배경 제작·배포사업 안내, 2026-05) · 웹툰 소재 시장 판매자 약 700명, 소재 약 8,000세트 (블로터 2022) | 적합. 배경이 부담이고, 그것을 도구 자산으로 사고파는 시장이 이미 있습니다 |
+| 펼침 | 숏폼 주 5일 이상 시청 41.8% | 부분 | 매체 이용 습관일 뿐 「선수 출신 해설」과는 거리가 있습니다 | 은퇴 운동선수 무직 38.19%, 스포츠 관련 분야 전직 38.4%, 평균 은퇴 나이 23.6세 (대한체육회 자료, 국회 국정감사 2025-10) | 적합. 몸으로 쌓은 경험을 말과 영상으로 펼쳐 다음 일로 잇는 길이 필요하다는 숫자입니다 |
+| 돌봄 | 2024 육아휴직 시작 아빠 6만 117명 (29.2%) | 적합 | 처음 해 보는 아빠가 많다는 숫자입니다 | 남성 육아휴직 찬성 81.4%, 그런데 동료에게 권하는 비율은 46.4%이고, 업무 부담과 대체인력 부족이 가로막는다고 답함 (설문 분석 보고서, 연합뉴스 2026-06-24) | 적합(강화). 순서를 적은 안내서가 회사 제도와 동료 사이의 빈자리를 메웁니다 |
+| 이음 | 외국인 유학생 약 25만 명 | 부분 | 규모입니다 | 유학생 86.5%가 졸업 후 한국 취업을 원함 (중소기업중앙회 2025-03, 805명) · 국내 취업 대상 유학생 졸업자 가운데 실제 취업 33.4% (교육부 2024년 졸업자 취업통계, 2025-12) | 적합. 원하는 사람과 실제 일자리 사이의 거리가 이음이 메울 자리입니다 |
+| 세움 | 경북 산불 약 4만 8천 ha · 이재민 3,323세대 | 적합 | 마을마다 다른 복구 일이 한꺼번에 생긴 자리입니다 | 그대로 둠 | 적합 |
+| 지킴 | 식량 불안 2억 6,600만 명 (세계) | 부분 | 종자 연구원 한 사람의 일과 거리가 멉니다 | 국립농업과학원 종자은행이 보존 중인 한국 원산 토종 유전자원 41,998자원 (한국육종학회지 2025) · 성인 「평소 재무상황 점검」 점수 43.4점 (한국은행·금융감독원 2024 금융이해력조사) | 적합. 지켜야 할 기록이 실제로 많고, 살림을 기록으로 지키는 힘은 약합니다 |
+
+## 2. 정리
+- 지금은 일곱 편 모두 「적합」 근거가 하나 이상 있습니다.
+- 숫자는 영상에 넣지 않습니다. 기획과 인물 선택이 맞는지 확인하는 근거로만 씁니다. 대표님이 정하신 「관련 연구와 자료」의 한 부분입니다.
+- 오래된 자료(밝힘 2016, 웹툰 소재 시장 2022)는 「가설을 받치는 참고」로 표시했습니다. 새 자료가 나오면 바꿉니다.
+- 확인하지 못한 것: 영상 속 자산(10분 설명서 등)이 실제로 얼마나 효과가 있는지는 숫자로 확인하지 않았습니다. 영상도 효과를 말하지 않고, 「누가 다시 썼는가」만 보여 줍니다.

diff --git a/docs/marketing/youtube/series/SERIES_SCRIPTURE_ADVICE.md b/docs/marketing/youtube/series/SERIES_SCRIPTURE_ADVICE.md
@@ -1,0 +1,26 @@
+# 성경 인물을 영상에 넣을지: 최종 조언 (2026-10-13)
+
+## 결론
+**이 시리즈 영상에는 넣지 않는 것을 권합니다.** 대표님이 정하신 방향과 같습니다. 성경 인물 검토 자료(`SERIES_SCRIPTURE.md`)는 내부 설계 기준으로 남겨 둡니다.
+
+## 이유
+1. **누구에게 보이는 영상인가.** 이 시리즈는 「나의 고유함은 무엇으로 남을까」를 찾는 모든 사람이 보는 입구입니다. 성경 인물이 끝에 나오면, 신앙이 없는 시청자는 영상을 「종교 콘텐츠」로 읽고 마지막 20초 안내(길찾기)에 닿기 전에 나갈 수 있습니다. 이것은 가설이고, 아직 시청 데이터로 확인하지 않았습니다.
+2. **본문을 지키는 일.** 짧은 영상 끝에 인물 한 명과 한 절을 붙이면, 본문의 무게보다 작게 쓰이기 쉽습니다. 에스더(생명이 걸린 결단)나 마태(부르심)가 그런 경우입니다. 넣지 않는 편이 본문을 더 존중합니다.
+3. **회사의 뿌리는 이미 드러나 있습니다.** EP.03 출시편에서 「고유함은 하나님께 받은 것」이라고 밝혔고, 베드로전서 4:10을 썼습니다. 회사가 무엇을 믿는지는 출시편·블로그·서비스 근거(성경 원리)에서 이미 일관되게 보입니다.
+4. **7대 영역의 리더를 세우는 길.** 기독교 기반 미네르바형 대학을 최종 목적지로 보면, 이 시리즈는 「넓은 입구」 역할을 합니다. 신앙의 깊이는 그다음 단계에서 다루는 편이 더 정확합니다.
+
+## 그래서 이렇게 나눕니다
+| 자리 | 성경 인물·구절 | 하는 일 |
+|---|---|---|
+| 유형별 시리즈 영상 (EP.04~10) | 넣지 않음 | 일곱 영역의 사람들이 고유함을 자산으로 남기는 모습만 보여 줍니다 |
+| 출시편·회사 이야기 (EP.03 같은 영상) | 한 절, 문맥 검토 후 | 회사가 믿는 것을 밝힙니다 |
+| 블로그 「자산화 노트」 | 문맥 검토 후 | 지금처럼 씁니다 |
+| 내부 설계 | `SERIES_SCRIPTURE.md` | 인물을 고를 때 기준으로만 씁니다. 예: 밝힘은 다니엘처럼 낯선 곳에서 배우고 그 앎으로 일하는 사람 |
+| 나중에 (대학·공동체 과정) | 따로 시리즈 | 「성경 인물과 일곱 가지 변화」를 주제로, 본문을 충분히 다루는 별도 강의나 묵상 시리즈로 만듭니다 |
+
+## 영상 안에서 지키는 것
+- 성경을 말하지 않아도, 해설서가 정한 원리는 그대로 지킵니다.
+  - 고유함은 다른 사람에게 다시 쓰일 때 자산이 됩니다.
+  - 결과는 참고이고, 고르는 것은 본인입니다.
+  - 순위와 등급을 두지 않습니다.
+- 영리 기업인도 같은 기준으로 보여 줍니다. 무엇을 남겼고, 누가 다시 썼는지를 보여 주고, 「얼마를 벌었다」는 말하지 않습니다. 돈과 관련한 장면은 살림·관리, 사업 운영 예시로만 씁니다.

diff --git a/docs/marketing/youtube/series/SERIES_DEMAND.md b/docs/marketing/youtube/series/SERIES_DEMAND.md
@@ -1,5 +1,7 @@
 # 자산화 시리즈 · 영역별 수요조사와 사례 v2 (2026-10-13)
 
+> 이 숫자들이 자산화 유형을 설명하기에 맞는지 검토한 결과는 `SERIES_DEMAND_FIT.md`에 있습니다. 판정이 「부분」인 숫자는 거기서 바꾸거나 더했습니다.
+
 ## 0. 무엇을 바꾸었나 (대표 피드백 두 번 반영)
 | 피드백 | 반영 |
 |---|---|
